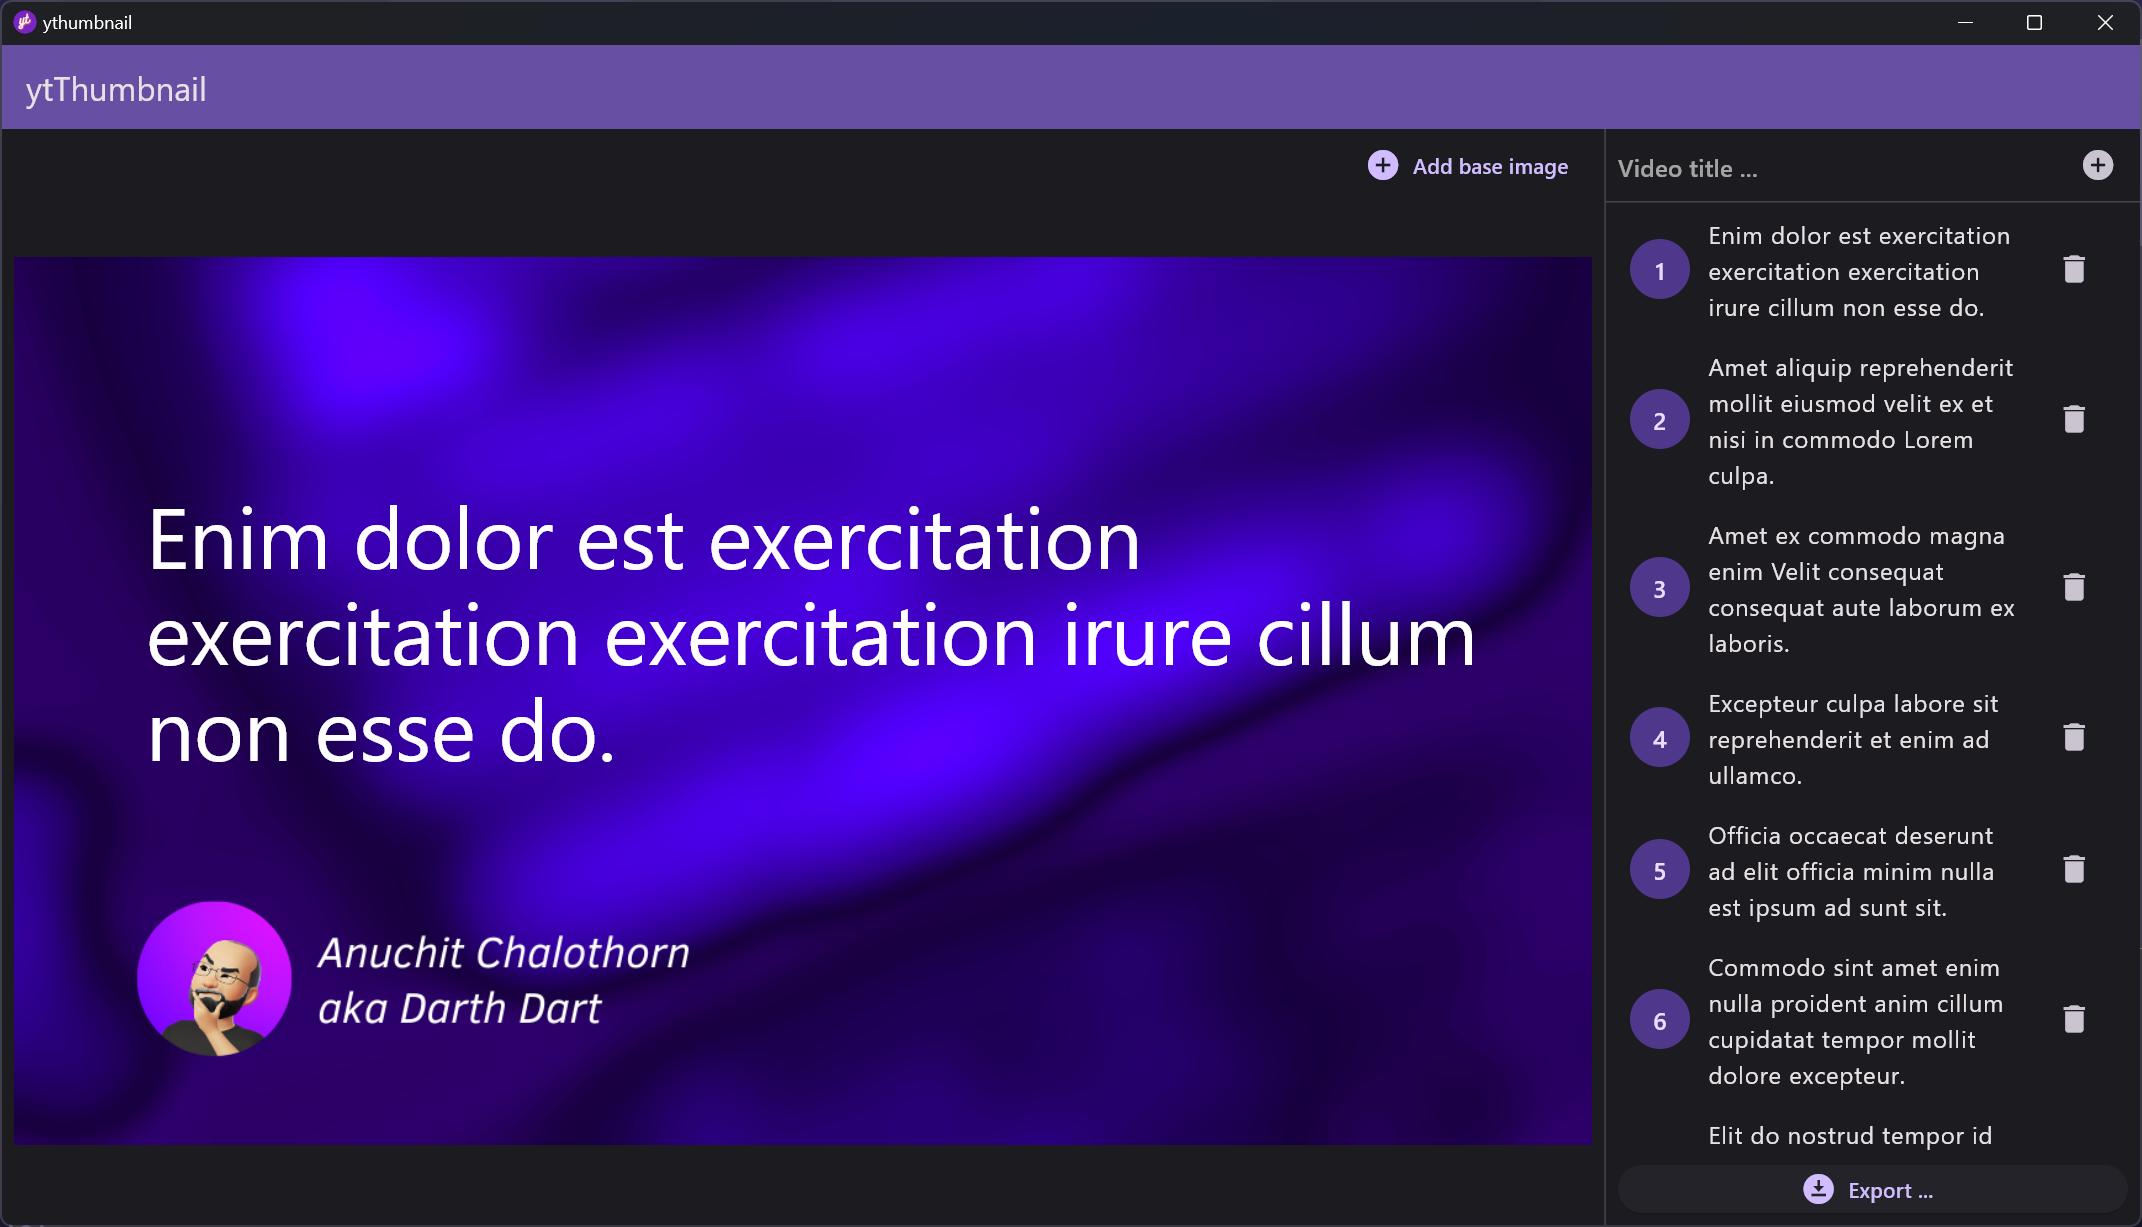
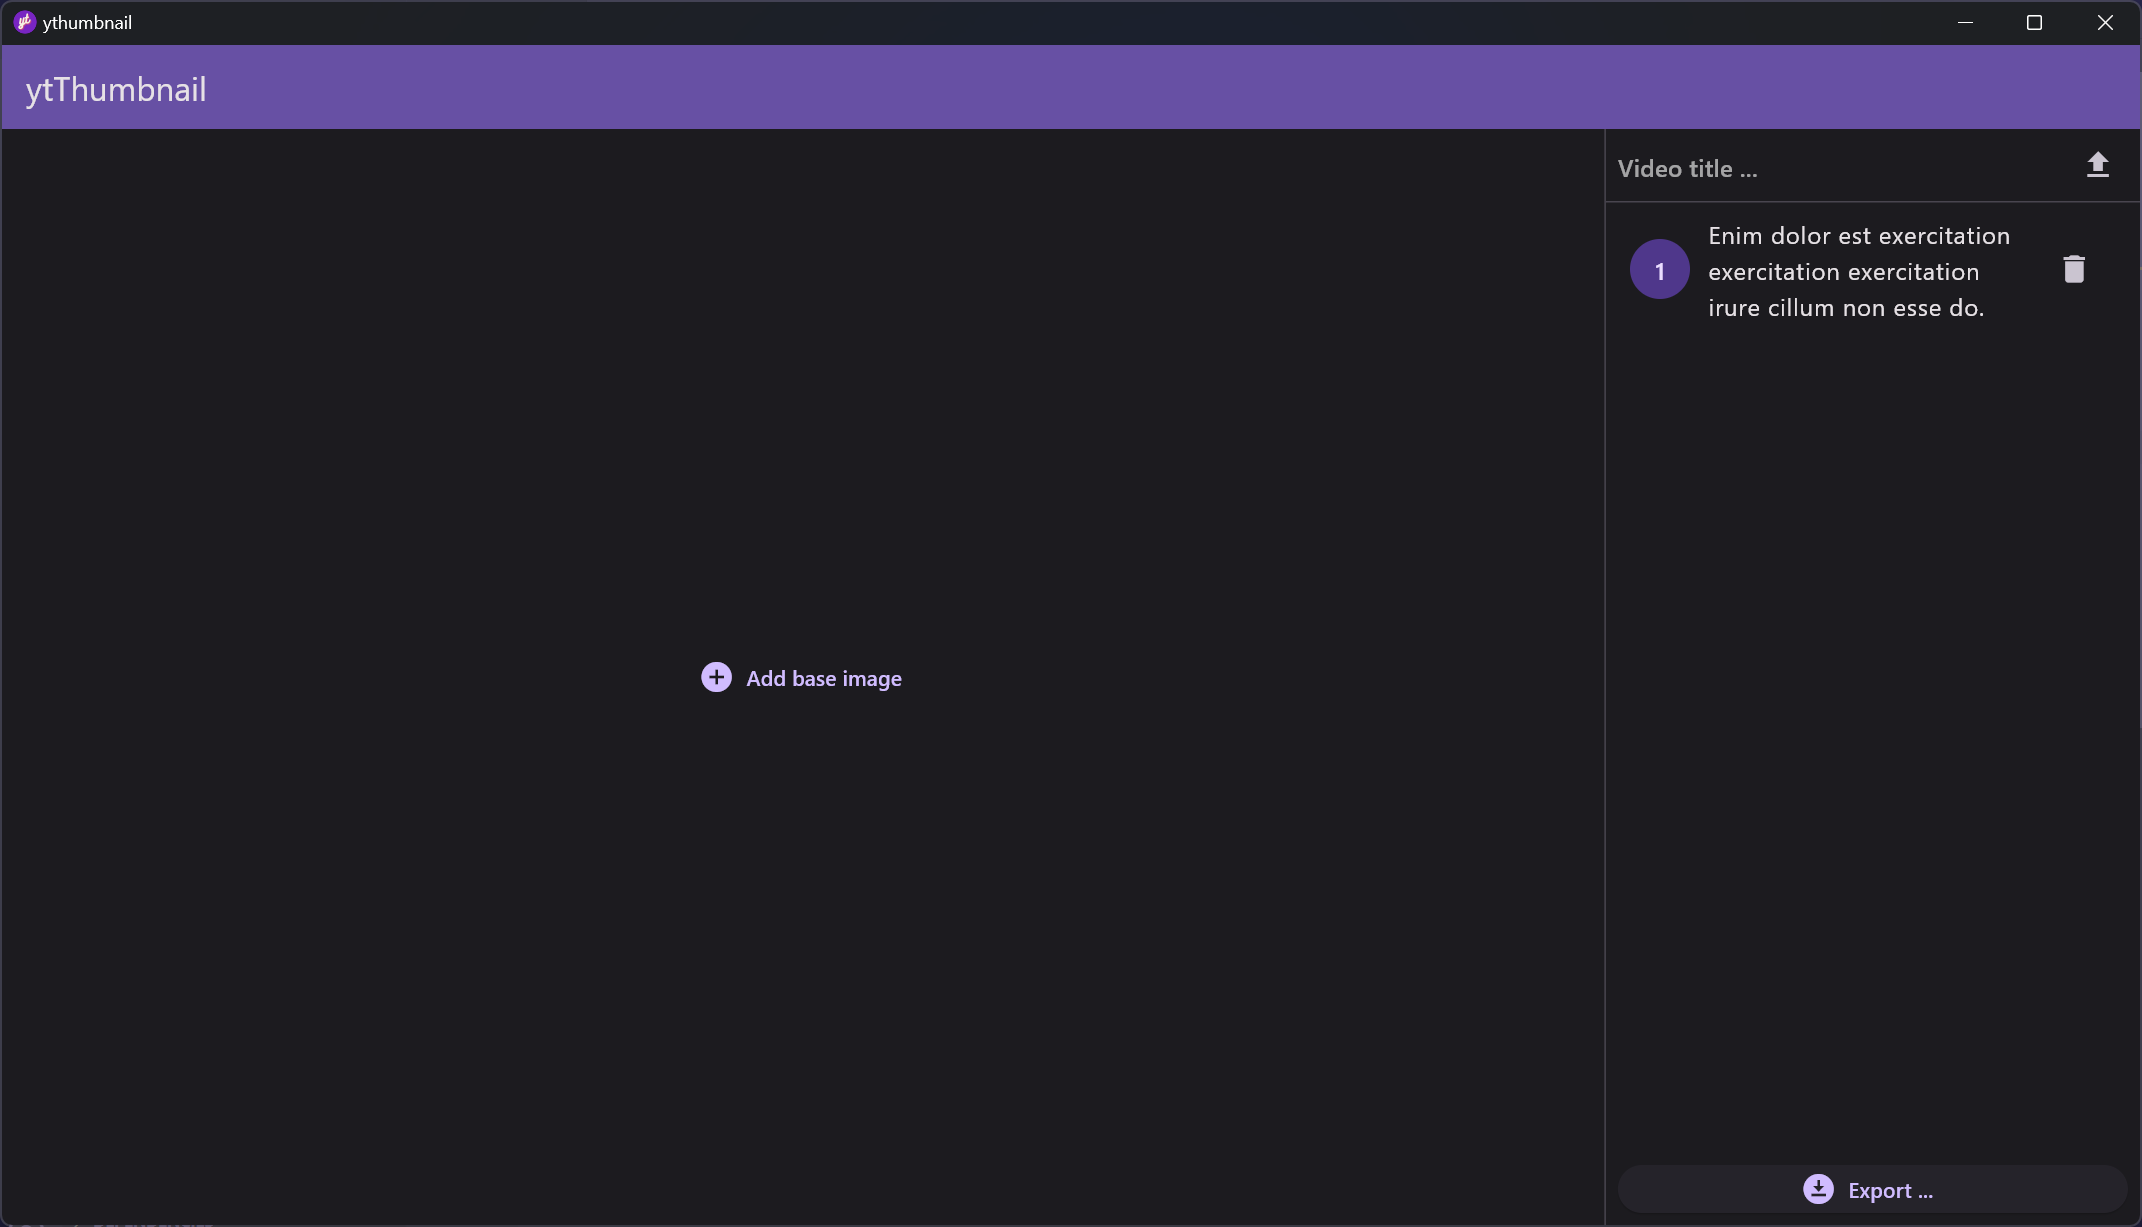
add more screenshot

diff --git a/lib/app/modules/home/controllers/home_controller.dart b/lib/app/modules/home/controllers/home_controller.dart
@@ -41,6 +41,15 @@ Consectetur irure exercitation ea ut id consectetur non deserunt proident except
   void onInit() {
     const sample = [
       'Enim dolor est exercitation exercitation exercitation irure cillum non esse do.',
+      'Amet aliquip reprehenderit mollit eiusmod velit ex et nisi in commodo Lorem culpa.',
+      'Amet ex commodo magna enim Velit consequat consequat aute laborum ex laboris.',
+      'Excepteur culpa labore sit reprehenderit et enim ad ullamco.',
+      'Officia occaecat deserunt ad elit officia minim nulla est ipsum ad sunt sit.',
+      'Commodo sint amet enim nulla proident anim cillum cupidatat tempor mollit dolore excepteur.',
+      'Elit do nostrud tempor id fugiat incididunt proident ullamco et est commodo in ullamco.',
+      'Dolor officia tempor laboris dolor velit ipsum ullamco ad eiusmod commodo dolore in cupidatat.',
+      'Aliquip adipisicing ipsum adipisicing eiusmod aliqua ut nostrud id ipsum ea aute.',
+      'Consectetur irure exercitation ea ut id consectetur non deserunt proident excepteur ex labore.',
     ];
 
     if (kDebugMode) {

diff --git a/lib/app/modules/home/views/draggable_widget_view.dart b/lib/app/modules/home/views/draggable_widget_view.dart
@@ -126,10 +126,10 @@ class DraggableIcon extends StatelessWidget {
   Widget build(BuildContext context) {
     return Visibility(
       visible: visible,
-      child: Icon(
+      child: const Icon(
         Icons.add,
-        color: Colors.white.withOpacity(0.5),
-        size: 12,
+        color: Colors.lightGreen,
+        size: 18,
       ),
     );
   }

diff --git a/lib/app/modules/home/views/base_canvas_view.dart b/lib/app/modules/home/views/base_canvas_view.dart
@@ -111,7 +111,7 @@ class BaseCanvasView extends GetView<HomeController> {
       child: InkWell(
         onTap: () => pickBaseImage(),
         child: Container(
-          color: Colors.amber,
+          // color: Colors.amber,
           width: scwidth,
           height: scheight,
           child: Stack(
